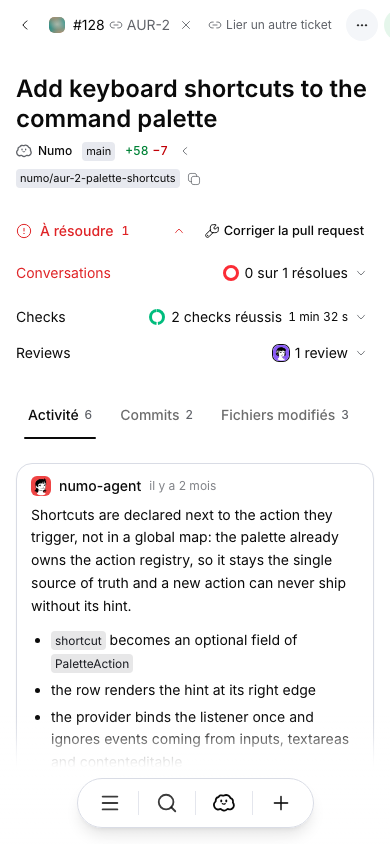
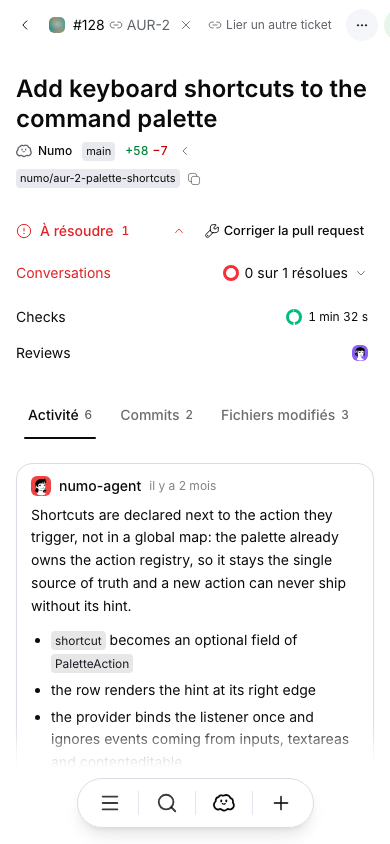
refactor: simplify check and review property triggers

Changed region(s): [[0.3692, 0.3697, 0.9538, 0.4313]]

diff --git a/lib/pr-insights.test.ts b/lib/pr-insights.test.ts
@@ -7,6 +7,7 @@ import { afterEach, beforeEach, describe, expect, it, vi } from "vitest";
 import { PrInsights } from "@/components/pull-requests/pr-insights";
 import type { CheckState, ChecksSummary } from "@/lib/agent-api";
 import messages from "@/messages/en.json";
+import { AI_REVIEW_PROVIDERS } from "@/lib/pr-ai-review/providers";
 
 // Load the real primitives without the unrelated emoji picker barrel export.
 vi.mock("mangue-ui", async () => ({
@@ -20,8 +21,10 @@ vi.mock("mangue-ui", async () => ({
 vi.mock("@/components/ui/app-tooltip", () => ({
   AppTooltip: ({ children }: { children: ReactElement }) => children,
 }));
-vi.mock("@/components/numo-icon", () => ({ NumoIcon: () => null }));
-vi.mock("@/components/git/forge-user-avatar", () => ({ ForgeUserAvatar: () => null }));
+vi.mock("@/components/numo-icon", () => ({ NumoIcon: () => createElement("span", { "data-numo-icon": true }) }));
+vi.mock("@/components/git/forge-user-avatar", () => ({
+  ForgeUserAvatar: ({ user }: { user: { login: string } }) => createElement("span", { "data-reviewer-login": user.login }),
+}));
 
 function checks(...states: CheckState[]): ChecksSummary {
   return {
@@ -80,8 +83,12 @@ describe("pull request insight properties", () => {
   it("keeps checks and reviews available without empty conversation or Numo rows", async () => {
     props.checks = checks();
     await render();
-    expect(trigger("checks").textContent).toContain("No checks");
-    expect(trigger("reviews").textContent).toContain("No reviews yet");
+    expect(trigger("checks").textContent).toBe("");
+    expect(trigger("checks").getAttribute("aria-label")).toContain("No checks");
+    expect(trigger("checks").querySelector("circle")).not.toBeNull();
+    expect(trigger("reviews").textContent).toBe("");
+    expect(trigger("reviews").getAttribute("aria-label")).toContain("No reviews yet");
+    expect(trigger("reviews").querySelector("[data-numo-icon]")).not.toBeNull();
     expect(trigger("conversations")).toBeNull();
     expect(trigger("numo-review")).toBeNull();
     expect(document.querySelector('[data-testid="pr-card-numo-review"]')).toBeNull();
@@ -107,7 +114,7 @@ describe("pull request insight properties", () => {
     const group = document.querySelector('[data-testid="pr-insight-blockers"]')!;
     expect(group.contains(trigger("checks"))).toBe(true);
     expect(group.contains(trigger("reviews"))).toBe(false);
-    expect(trigger("checks").textContent).toContain("1 check failed");
+    expect(trigger("checks").getAttribute("aria-label")).toContain("1 check failed");
     expect(trigger("checks").className).not.toMatch(/bg-destructive|text-destructive/);
     const label = trigger("checks").closest(".min-h-9")!.firstElementChild!;
     expect(label.classList.contains("text-destructive")).toBe(true);
@@ -123,18 +130,18 @@ describe("pull request insight properties", () => {
     props.checks = checks("success", "success");
     await render();
     expect(trigger("checks")).toBe(before);
-    expect(trigger("checks").textContent).toContain("2 checks passed");
-    expect(trigger("checks").textContent).toContain("1 min 32s");
+    expect(trigger("checks").getAttribute("aria-label")).toContain("2 checks passed");
+    expect(trigger("checks").textContent).toBe("1 min 32s");
     expect(trigger("checks").querySelectorAll("circle")).toHaveLength(2);
   });
 
   it("does not count skipped checks as passed checks", async () => {
     props.checks = checks("success", "neutral");
     await render();
-    expect(trigger("checks").textContent).toContain("1 check passed");
+    expect(trigger("checks").getAttribute("aria-label")).toContain("1 check passed");
     props.checks = checks("neutral", "neutral");
     await render();
-    expect(trigger("checks").textContent).toContain("Skipped");
+    expect(trigger("checks").getAttribute("aria-label")).toContain("Skipped");
   });
 
   it("reopens the blocking group when another control opens the checks", async () => {
@@ -158,7 +165,9 @@ describe("pull request insight properties", () => {
     await render();
     const group = document.querySelector('[data-testid="pr-insight-blockers"]')!;
     expect(group.contains(trigger("reviews"))).toBe(true);
-    expect(trigger("reviews").textContent).toContain("Changes requested");
+    expect(trigger("reviews").textContent).toBe("");
+    expect(trigger("reviews").getAttribute("aria-label")).toContain("Changes requested");
+    expect(trigger("reviews").querySelector('[data-reviewer-login="reviewer"]')).not.toBeNull();
     await act(async () => trigger("reviews").click());
     expect(document.querySelector('[data-testid="pr-reviews-popover"]')!.textContent).toContain("Already reviewed by Numo");
   });
@@ -167,7 +176,9 @@ describe("pull request insight properties", () => {
     const onOpen = vi.fn();
     props.numoReview = { kind: "running", label: messages.PullRequests.numoReviewRunning, onOpen, startedAt: "2026-10-05T10:00:00Z", durationMs: null };
     await render();
-    expect(trigger("reviews").textContent).toContain("Numo is reviewing");
+    expect(trigger("reviews").textContent).toBe("");
+    expect(trigger("reviews").getAttribute("aria-label")).toContain("Numo is reviewing");
+    expect(trigger("reviews").querySelector("[data-numo-icon]")).not.toBeNull();
     expect(trigger("numo-review")).toBeNull();
     await act(async () => trigger("reviews").click());
     const detail = document.querySelector('[data-testid="pr-insight-detail-numo-review"]')!;
@@ -197,6 +208,37 @@ describe("pull request insight properties", () => {
     await act(async () => launch.click());
     expect(onLaunch).toHaveBeenCalledOnce();
     expect(launch.textContent).toBe("Launched");
+  });
+
+  it("shows check results and durations without details links in the popover", async () => {
+    props.checks = checks("success", "pending");
+    props.checks.checks[0].url = "https://github.com/test/repository/actions/runs/1";
+    props.checksOpen = true;
+    await render();
+    const popover = document.querySelector('[data-testid="pr-checks-popover"]')!;
+    expect(popover.querySelector("a")).toBeNull();
+    expect(popover.textContent).toContain("Check 1");
+    expect(popover.textContent).toContain("Passed");
+    expect(popover.textContent).toContain("Running");
+    expect(popover.textContent).toContain("1 min 32s");
+  });
+
+  it("shows human reviewer avatars and external logos without duplicate bot avatars", async () => {
+    const provider = AI_REVIEW_PROVIDERS[0];
+    const bot = { login: provider.githubLogins[0], avatar_url: null };
+    props.timeline = [
+      { id: "review:human", kind: "reviewed", actor: { login: "reviewer", avatar_url: null }, createdAt: null, reviewState: "commented" },
+      { id: "review:bot", kind: "reviewed", actor: bot, createdAt: null, reviewState: "commented" },
+    ];
+    props.requestedReviewers = [{ login: "reviewer", avatar_url: null }, { login: "pending-reviewer", avatar_url: null }];
+    props.aiReviews = [{ provider, state: "completed", startedAt: null, durationMs: 30_000, updatedAt: "2026-10-05T10:00:00Z", url: null }];
+    await render();
+    const button = trigger("reviews");
+    expect(button.textContent).toBe("");
+    expect(button.querySelectorAll('[data-reviewer-login="reviewer"]')).toHaveLength(1);
+    expect(button.querySelector('[data-reviewer-login="pending-reviewer"]')).not.toBeNull();
+    expect(button.querySelector(`[data-reviewer-login="${bot.login}"]`)).toBeNull();
+    expect(button.querySelector(`[data-testid="pr-review-provider-${provider.id}"]`)).not.toBeNull();
   });
 
 });

diff --git a/components/pull-requests/pr-insights.tsx b/components/pull-requests/pr-insights.tsx
@@ -200,9 +200,20 @@ export function PrInsights(props: PrInsightsProps) {
   const count = groups.reduce((total, group) => total + group.length, 0);
   const latest = groups.map((group) => group[0]);
   const humanTone = reviewCardTone(props.timeline, props.requestedReviewers);
-  const reviewerAvatars = latest.length > 0
-    ? latest.flatMap((review) => review.actor ? [review.actor] : [])
-    : props.requestedReviewers;
+  const externalReviews = props.aiReviews ?? [];
+  const providerLogins = new Set(externalReviews.flatMap((review) =>
+    review.provider.githubLogins.map((login) => login.toLowerCase()),
+  ));
+  const reviewerAvatars = [
+    ...latest.flatMap((review) => review.actor ? [review.actor] : []),
+    ...props.requestedReviewers,
+  ].filter((user, index, users) =>
+    !providerLogins.has(user.login.toLowerCase()) &&
+    users.findIndex((candidate) => candidate.login.toLowerCase() === user.login.toLowerCase()) === index,
+  );
+  const showNumo = !!props.numoReview && (
+    props.numoReview.kind !== "requested" || (reviewerAvatars.length === 0 && externalReviews.length === 0)
+  );
   const reviewTone = reviews.some(({ insight }) => insight.tone === "danger") ||
     humanTone === "danger"
     ? "danger"
@@ -239,9 +250,11 @@ export function PrInsights(props: PrInsightsProps) {
           tone={checksInsight.tone}
           testId="pr-status-card-checks"
           detailsTestId="pr-checks-popover"
+          ariaLabel={`${t("viewChecks")}: ${checksInsight.title}`}
+          showChevron={false}
           open={props.checksOpen}
           onOpenChange={props.onChecksOpenChange}
-          summary={<StatusSummary insight={checksInsight} now={now} />}
+          summary={<StatusSummary insight={checksInsight} now={now} compact />}
         >
           <ChecksDetails checks={props.checks} provider={props.provider} />
         </PrInsightRow>
@@ -256,11 +269,18 @@ export function PrInsights(props: PrInsightsProps) {
           tone={reviewTone}
           testId="pr-status-card-reviews"
           detailsTestId="pr-reviews-popover"
+          ariaLabel={`${t("viewReviews")}: ${reviewSummary}`}
+          showChevron={false}
           summary={
             <>
               {reviewerAvatars.length > 0 ? <AvatarCascade users={reviewerAvatars} /> : null}
-              {props.numoReview && props.numoReview.kind !== "requested" ? <NumoIcon animated={false} className="size-4 shrink-0" /> : null}
-              <span className="min-w-0 truncate">{reviewSummary}</span>
+              {externalReviews.map((review) => (
+                <span key={review.provider.id} data-testid={`pr-review-provider-${review.provider.id}`}>
+                  <StatusIcon insight={reviews.find(({ insight }) => insight.id === `ai-review-${review.provider.id}`)!.insight} />
+                </span>
+              ))}
+              {showNumo ? <NumoIcon animated={false} className="size-4 shrink-0" /> : null}
+              {!showNumo && reviewerAvatars.length === 0 && externalReviews.length === 0 ? <AppIcon icon={UserRoundCheck} className="size-4 shrink-0" /> : null}
             </>
           }
         >
@@ -750,8 +770,8 @@ function StatusIcon({ insight }: { insight: PrInsight }) {
     <span aria-hidden className="flex shrink-0 items-center [&_svg]:size-4">
       {insight.logo ? (
         <span className="inline-block size-4 bg-current [mask-repeat:no-repeat] [mask-position:center] [mask-size:contain]" style={{ maskImage: `url(${insight.logo})`, WebkitMaskImage: `url(${insight.logo})` }} />
-      ) : insight.donutParts ? (
-        <ChecksDonut parts={insight.donutParts} />
+      ) : insight.donutParts || insight.id === "checks" ? (
+        <ChecksDonut parts={insight.donutParts ?? []} />
       ) : insight.id === "conversations" && insight.tone === "success" ? (
         <HugeiconsIcon icon={CheckIcon} />
       ) : insight.id === "deployment" ? (
@@ -767,7 +787,7 @@ function StatusIcon({ insight }: { insight: PrInsight }) {
   );
 }
 
-function StatusSummary({ insight, now }: { insight: PrInsight; now: Date }) {
+function StatusSummary({ insight, now, compact = false }: { insight: PrInsight; now: Date; compact?: boolean }) {
   const t = useTranslations("PullRequests");
   const duration = insight.startedAt
     ? formatRunDuration(t, Math.max(now.getTime() - Date.parse(insight.startedAt), 0))
@@ -775,7 +795,7 @@ function StatusSummary({ insight, now }: { insight: PrInsight; now: Date }) {
   return (
     <>
       <StatusIcon insight={insight} />
-      <AppTooltip label={insight.title}><span className="min-w-0 truncate">{insight.title}</span></AppTooltip>
+      {!compact ? <AppTooltip label={insight.title}><span className="min-w-0 truncate">{insight.title}</span></AppTooltip> : null}
       {duration ? <span className="shrink-0 font-mono text-xs tabular-nums">{duration}</span> : null}
     </>
   );
@@ -881,7 +901,6 @@ function ChecksDetails({ checks, provider }: { checks: ChecksSummary | null; pro
             <span className={cn("font-mono tabular-nums", CHECK_ROW_TEXT[check.state])}>
               {formatRunDuration(t, check.state === "pending" && check.startedAt ? Math.max(now.getTime() - Date.parse(check.startedAt), 0) : check.durationMs)}
             </span>
-            {check.url ? <a href={check.url} target="_blank" rel="noreferrer" className="rounded text-muted-foreground underline-offset-4 hover:underline focus-visible:outline-ring">{t("checkDetails")}</a> : null}
           </div>
         </li>
       ))}
@@ -901,7 +920,7 @@ export function ChecksDonut({ parts }: { parts: CheckState[] }) {
   const radius = 6.5;
   const stroke = 3;
   const circumference = 2 * Math.PI * radius;
-  const slice = circumference / parts.length;
+  const slice = parts.length > 0 ? circumference / parts.length : 0;
   // Slices run clockwise from 12 o'clock; a small gap keeps adjacent parts
   // readable even when every slice has the same color.
   const gap = parts.length > 1 ? Math.min(1.5, slice * 0.2) : 0;
@@ -911,7 +930,9 @@ export function ChecksDonut({ parts }: { parts: CheckState[] }) {
       className="size-4 shrink-0"
       aria-hidden
     >
-      {parts.map((state, index) => (
+      {parts.length === 0 ? (
+        <circle cx={size / 2} cy={size / 2} r={radius} fill="none" className="stroke-muted-foreground/30" strokeWidth={stroke} />
+      ) : parts.map((state, index) => (
         <circle
           key={index}
           cx={size / 2}
@@ -942,7 +963,7 @@ function AvatarCascade({
           key={user.login}
           user={user}
           className={cn(
-            "size-4 ring-1 ring-insight",
+            "size-4 ring-1 ring-card",
             index > 0 && "-ml-1.5",
           )}
         />

diff --git a/components/pull-requests/pr-insight-row.tsx b/components/pull-requests/pr-insight-row.tsx
@@ -16,6 +16,8 @@ export function PrInsightRow({
   children,
   testId,
   detailsTestId,
+  ariaLabel,
+  showChevron = true,
   open,
   onOpenChange,
 }: {
@@ -25,6 +27,8 @@ export function PrInsightRow({
   children: ReactNode;
   testId: string;
   detailsTestId?: string;
+  ariaLabel?: string;
+  showChevron?: boolean;
   open?: boolean;
   onOpenChange?: (open: boolean) => void;
 }) {
@@ -34,15 +38,18 @@ export function PrInsightRow({
         <PopoverTrigger asChild>
           <button
             type="button"
+            aria-label={ariaLabel ?? label}
             data-testid={testId}
             className={cn(TRIGGER, "mr-0 min-w-0")}
           >
             {summary}
-            <HugeiconsIcon
-              icon={ArrowDown01Icon}
-              aria-hidden
-              className="size-3.5 shrink-0 text-muted-foreground"
-            />
+            {showChevron ? (
+              <HugeiconsIcon
+                icon={ArrowDown01Icon}
+                aria-hidden
+                className="size-3.5 shrink-0 text-muted-foreground"
+              />
+            ) : null}
           </button>
         </PopoverTrigger>
         <PopoverContent
